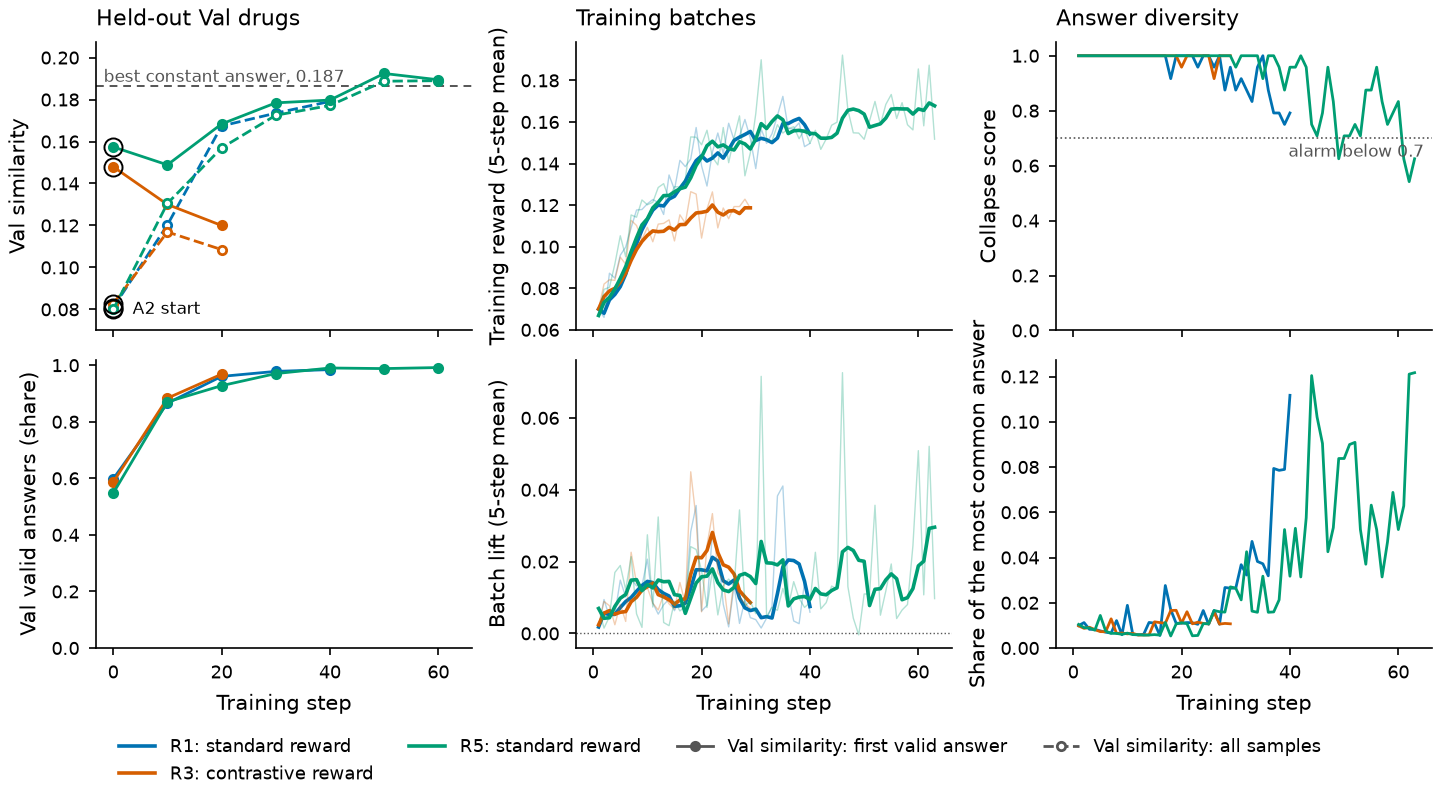
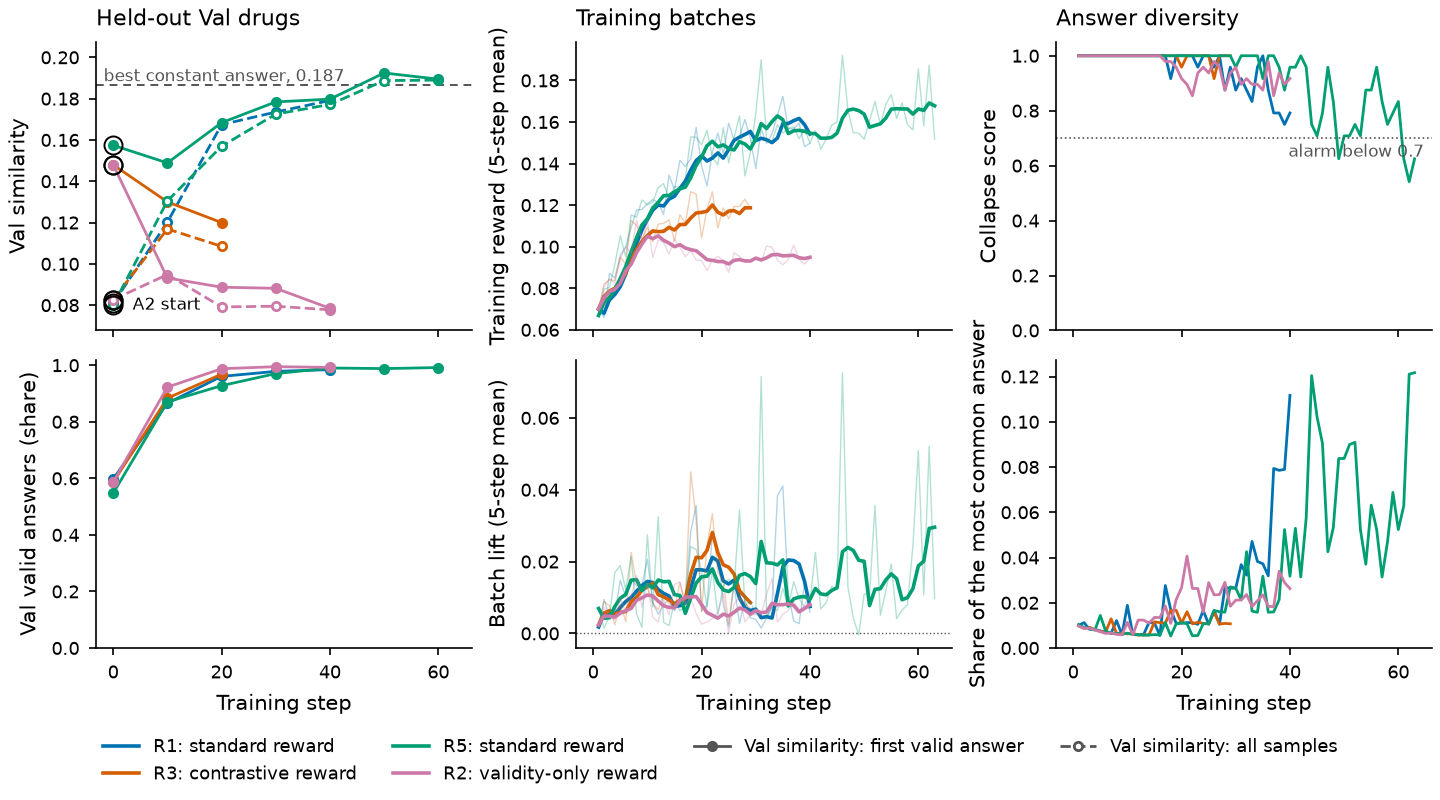
docs(paper): validity-only RL control (R2) on Val; F3 includes it

diff --git a/docs/paper/draft.md b/docs/paper/draft.md
@@ -131,7 +131,7 @@ The gain is not knowledge of the drug. Lift stays near zero (R5 step 50: fv_lift
 
 <!-- Table 3: results/answer_diversity.json (scripts/answer_diversity.py) -->
 
-The contrastive reward, which pays only for similarity beyond what an answer would score against the other drugs' references, did worse: 0.113 to 0.123 at steps 10 and 20, below its A2 start. Its run was cut short by the loss of the compute runtime at about step 28 of 40, so no later checkpoint exists. [TBD: the validity-only and profile-free RL runs on Val, from the Colab runs R2 and R4, if they finish.] <!-- results/val_baselines.json (r3s* rows); docs/memory/status-main.md -->
+The contrastive reward, which pays only for similarity beyond what an answer would score against the other drugs' references, did worse: 0.113 to 0.123 at steps 10 and 20, below its A2 start. Its run was cut short by the loss of the compute runtime at about step 28 of 40, so no later checkpoint exists. Validity-only RL (R2: the R1 recipe with reward 1 for a valid, closed, finished answer and 0 otherwise) shows that validity alone is not what moves the standard reward. It reaches 99% valid answers by step 30, but its delivered similarity falls from 0.148 (the A2 start, in-training evaluation at T=1.0) to 0.078 at step 40: the answers become short, trivially valid structures (17 tokens against 39, valid-answer similarity 0.078 against 0.142), the reverse of the generic structure that the similarity reward selects. [TBD: the profile-free RL run (R4), the standard reward with the profile removed, if it finishes.] <!-- runs/rl/R2/evals.jsonl, summary.json (status complete, 40 steps) --> <!-- results/val_baselines.json (r3s* rows); docs/memory/status-main.md -->
 
 ### 5.3 Does any arm use the profile?
 
